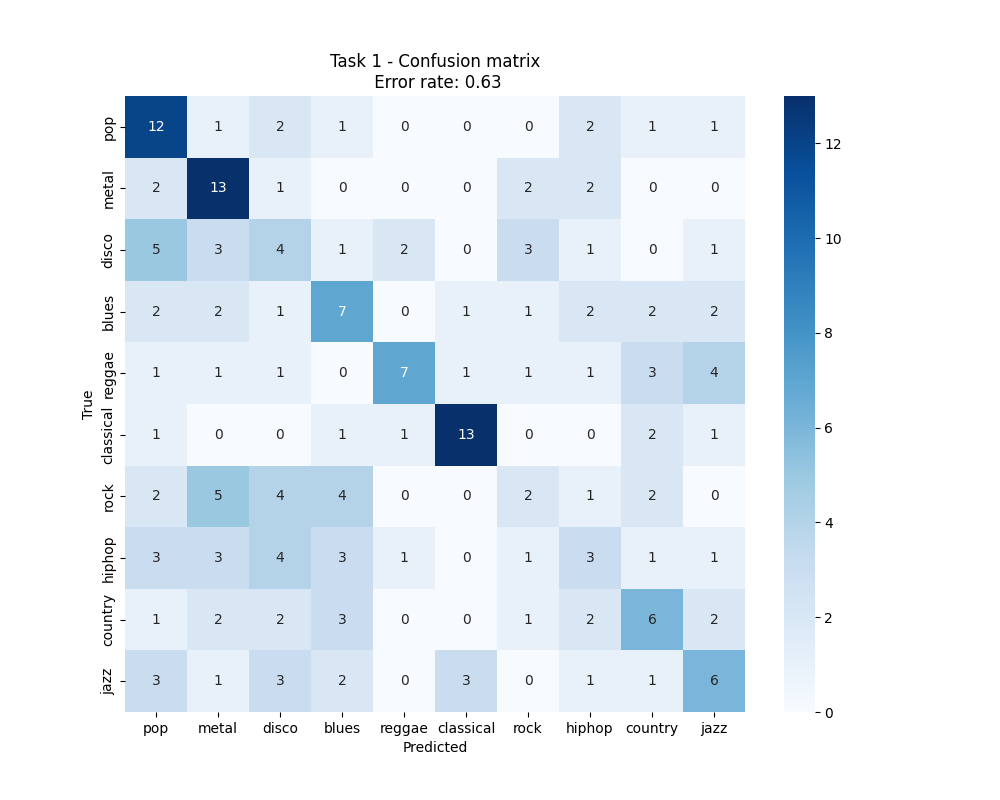
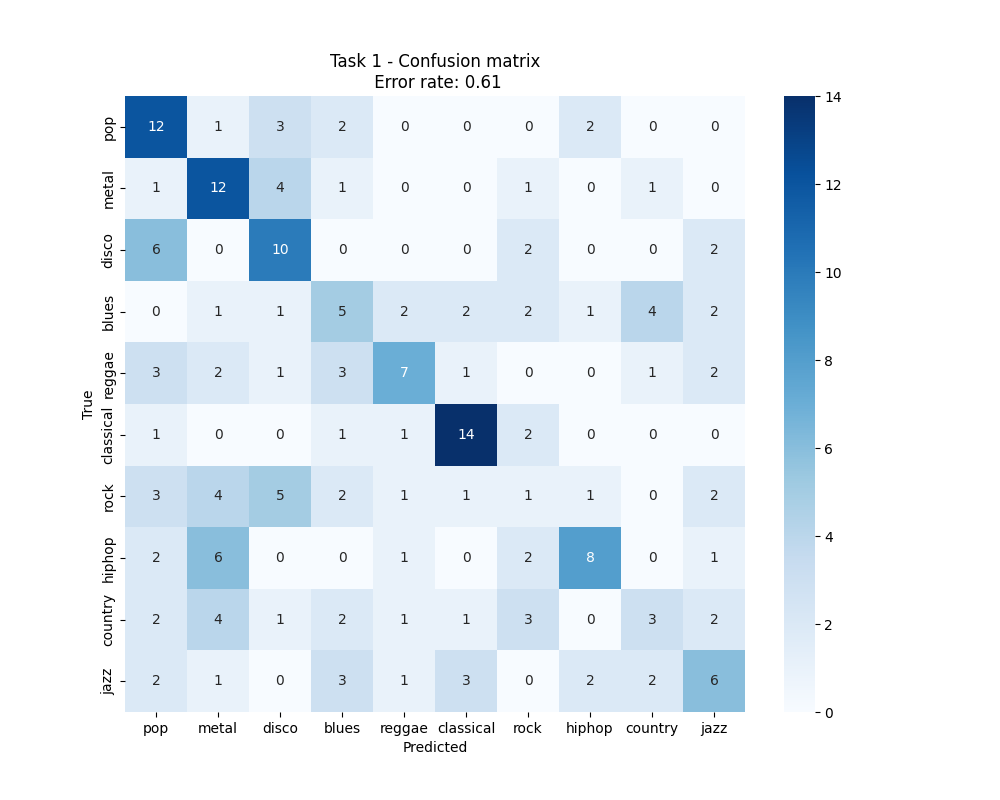
added requirements.txt and found new best feature

diff --git a/main.py b/main.py
@@ -3,7 +3,7 @@ import matplotlib.pyplot as plt
 import pandas as pd
 from kNN_classifier import kNNClassifier
 from maxMinScaler import MaxMinScaler
-from performance import save_confusion_matrix, plot_histogram
+from performance import save_confusion_matrix, plot_histogram, findBestNewFeature
 
 labels = ["pop", "metal", "disco", "blues", "reggae", "classical", "rock", "hiphop", "country", "jazz"]
 
@@ -11,100 +11,102 @@ features = [
     'spectral_rolloff_mean',
     'mfcc_1_mean',
     'spectral_centroid_mean',
-    'tempo',
-    'GenreID'
+    'tempo'
 ]
 
 # Loading data files
-df_30s = pd.read_csv('data/GenreClassData_30s.txt', sep='\t', usecols=features + ['Type', 'Genre'])
+df_30s = pd.read_csv('data/GenreClassData_30s.txt', sep='\t', usecols=features + ['Type', 'GenreID', 'Genre'])
 
 # Splitting training and testing data
-df_30s_train = df_30s[df_30s['Type'] == 'Train'][features]
-df_30s_test  = df_30s[df_30s['Type'] == 'Test'][features]
+df_30s_X_train = df_30s[df_30s['Type'] == 'Train'][features]
+df_30s_Y_train = df_30s[df_30s['Type'] == 'Train']['GenreID']
+df_30s_X_test  = df_30s[df_30s['Type'] == 'Test'][features]
+df_30s_Y_test  = df_30s[df_30s['Type'] == 'Test']['GenreID']
 
-train_30s = df_30s_train.to_numpy()
-test_30s = df_30s_test.to_numpy()
+X_train_30s = df_30s_X_train.to_numpy()
+Y_train_30s = df_30s_Y_train.to_numpy()
+X_test_30s  = df_30s_X_test.to_numpy()
+Y_test_30s  = df_30s_Y_test.to_numpy()
 
 # Task 1
-# Scale features to [0, 1] range using Min-Max scaling
 scaler = MaxMinScaler(feature_range=(0, 1))
 
-train_30s_scaled = scaler.fit_transform(train_30s[:, :-1])
-test_30s_scaled = scaler.transform(test_30s[:, :-1])
+scaled_X_train_30s = scaler.fit_transform(X_train_30s)
+scaled_X_test_30s = scaler.transform(X_test_30s)
 
 classifier = kNNClassifier(k=5)
-classifier.fit(train_30s_scaled[:, :-1], train_30s[:, -1])
-predictions = classifier.predict(test_30s_scaled[:, :-1])
+classifier.fit(scaled_X_train_30s, Y_train_30s)
+predictions = classifier.predict(scaled_X_test_30s)
 
-accuracy = np.mean(predictions == test_30s[:, -1])
+accuracy = np.mean(predictions == Y_test_30s)
 print(f'Error rate: {1 - accuracy:.2f}')
 
-# save_confusion_matrix(test_30s_scaled[:, -1], predictions, labels, f"Task 1 - Confusion matrix\n Error rate: {1 - accuracy:.2f}", "task_1_cm")
+# UNCOMMENT BELOW IF YOU WANT TO SAVE A NEW CONFUSION MATRIX
+#save_confusion_matrix(Y_test_30s, predictions, labels, f"Task 1 - Confusion matrix\n Error rate: {1 - accuracy:.2f}", "task_1_cm")
+
 
 # Task 2
 test_labels = ["pop", "disco", "metal", "classical"]
+# UNCOMMENT BELOW IF YOU WANT TO SAVE NEW DISTRIBUTION PLOTS
 #plot_histogram(df_30s, test_labels, 'spectral_rolloff_mean', 0, 9000, 16, bins=30, title="Distribution of Spectral Rolloff Mean", task="task_2")
 #plot_histogram(df_30s, test_labels, 'mfcc_1_mean', -800, 100, 19, bins=30, title="Distribution of MFCC 1 Mean", task="task_2")
 #plot_histogram(df_30s, test_labels, 'spectral_centroid_mean', 0, 5000, 16, bins=30, title="Distribution of Spectral Centroid Mean", task="task_2")
 #plot_histogram(df_30s, test_labels, 'tempo', 50, 200, 30, bins=30, title="Distribution of Tempo", task="task_2")
 
+
 # Task 3
-new_feature = 'spectral_rolloff_var'
-# spectral_bandwidth_mean
-# spectral_contrast_mean
-# chroma_stft_1_mean
-# spectral_flatness_mean best to now
-# 'spectral_rolloff_var' best without scaling
+remaining_features = ["zero_cross_rate_mean", "zero_cross_rate_std", "rmse_mean",
+                     "rmse_var", "spectral_centroid_var", "spectral_bandwidth_mean",
+                     "spectral_bandwidth_var", "spectral_rolloff_var", "spectral_contrast_mean",
+                     "spectral_contrast_var", "spectral_flatness_mean", "spectral_flatness_var",
+                     "chroma_stft_1_mean", "chroma_stft_2_mean", "chroma_stft_3_mean",
+                     "chroma_stft_4_mean", "chroma_stft_5_mean", "chroma_stft_6_mean",
+                     "chroma_stft_7_mean", "chroma_stft_8_mean", "chroma_stft_9_mean",
+                     "chroma_stft_10_mean", "chroma_stft_11_mean", "chroma_stft_12_mean",
+                     "chroma_stft_1_std", "chroma_stft_2_std", "chroma_stft_3_std",
+                     "chroma_stft_4_std", "chroma_stft_5_std", "chroma_stft_6_std",
+                     "chroma_stft_7_std", "chroma_stft_8_std", "chroma_stft_9_std",
+                     "chroma_stft_10_std", "chroma_stft_11_std", "chroma_stft_12_std",
+                     "mfcc_2_mean", "mfcc_3_mean", "mfcc_4_mean", "mfcc_5_mean", "mfcc_6_mean",
+                     "mfcc_7_mean", "mfcc_8_mean", "mfcc_9_mean", "mfcc_10_mean", "mfcc_11_mean",
+                     "mfcc_12_mean", "mfcc_1_std", "mfcc_2_std", "mfcc_3_std", "mfcc_4_std", 
+                     "mfcc_5_std", "mfcc_6_std", "mfcc_7_std", "mfcc_8_std", "mfcc_9_std", 
+                     "mfcc_10_std", "mfcc_11_std", "mfcc_12_std"]
 
-features = [
-    'spectral_rolloff_mean',
-    'mfcc_1_mean',
-    'spectral_centroid_mean',
-    #new_feature,
-    'GenreID'
-]
+prev_features = ['spectral_rolloff_mean', 'mfcc_1_mean', 'spectral_centroid_mean', 'tempo']
+df_30s_full = pd.read_csv('data/GenreClassData_30s.txt', sep='\t', usecols=prev_features + ['Type', 'GenreID', 'Genre'] + remaining_features)
+features, new_feature, index_of_replaced_feature = findBestNewFeature(remaining_features, prev_features, df_30s_full)
 
-df_30s = pd.read_csv('data/GenreClassData_30s.txt', sep='\t', usecols=features + ['Type', 'Genre'])
-df_30s_train = df_30s[df_30s['Type'] == 'Train'][features]
-df_30s_test  = df_30s[df_30s['Type'] == 'Test'][features]
-train_30s = df_30s_train.to_numpy()
-test_30s = df_30s_test.to_numpy()
+df_30s = pd.read_csv('data/GenreClassData_30s.txt', sep='\t', usecols=features + ['Type', 'GenreID', 'Genre'])
+
+df_30s_X_train = df_30s[df_30s['Type'] == 'Train'][features]
+df_30s_Y_train = df_30s[df_30s['Type'] == 'Train']['GenreID']
+df_30s_X_test  = df_30s[df_30s['Type'] == 'Test'][features]
+df_30s_Y_test  = df_30s[df_30s['Type'] == 'Test']['GenreID']
+
+X_train_30s = df_30s_X_train.to_numpy()
+Y_train_30s = df_30s_Y_train.to_numpy()
+X_test_30s  = df_30s_X_test.to_numpy()
+Y_test_30s  = df_30s_Y_test.to_numpy()
 
 scaler = MaxMinScaler(feature_range=(0, 1))
 
-train_30s_scaled = scaler.fit_transform(train_30s[:, :-1])
-test_30s_scaled = scaler.transform(test_30s[:, :-1])
-
-#print(df_30s[df_30s['Genre'] == 'pop'][new_feature])
-#plot_histogram(df_30s, test_labels, new_feature, -0.01, 0.15, 60, bins=30, title="Distribution of spectral flatness mean", task="task_3")
+scaled_X_train_30s = scaler.fit_transform(X_train_30s)
+scaled_X_test_30s = scaler.transform(X_test_30s)
 
 classifier = kNNClassifier(k=5)
-classifier.fit(train_30s_scaled[:, :-1], train_30s[:, -1])
-predictions = classifier.predict(test_30s_scaled[:, :-1])
+classifier.fit(scaled_X_train_30s, Y_train_30s)
+predictions = classifier.predict(scaled_X_test_30s)
 
-accuracy = np.mean(predictions == test_30s[:, -1])
+accuracy = np.mean(predictions == Y_test_30s)
+
 print(f'Error rate with new feature: {1 - accuracy:.2f}')
+print(f'Feature with best accuracy: {new_feature}')
+print(f'It replaced: {prev_features[index_of_replaced_feature]}')
+
+# UNCOMMENT BELOW IF YOU WANT TO SAVE A NEW CONFUSION MATRIX AND DISTRIBUTION PLOT
+#plot_histogram(df_30s, test_labels, new_feature, -0.01, 0.15, 15, bins=30, title="Distribution of RMSE variance", task="task_3")
+#save_confusion_matrix(Y_test_30s, predictions, labels, f"Task 3 - Confusion matrix\n Error rate: {1 - accuracy:.2f}", "task_3_cm")
+
 
 # Task 4
-features = [
-    'spectral_rolloff_mean',
-    'mfcc_1_mean',
-    'spectral_centroid_mean',
-    'tempo',
-    'GenreID'
-]
-
-df_5s = pd.read_csv('data/GenreClassData_5s.txt', sep='\t', usecols=features + ['Type', 'Genre'])
-df_10s = pd.read_csv('data/GenreClassData_10s.txt', sep='\t', usecols=features + ['Type', 'Genre'])
-
-df_5s_train = df_5s[df_5s['Type'] == 'Train'][features]
-df_5s_test  = df_5s[df_5s['Type'] == 'Test'][features]
-
-df_10s_train = df_10s[df_10s['Type'] == 'Train'][features]
-df_10s_test  = df_10s[df_10s['Type'] == 'Test'][features]
-
-train_5s = df_5s_train.to_numpy()
-test_5s = df_5s_test.to_numpy()
-
-train_10s = df_10s_train.to_numpy()
-test_10s = df_10s_test.to_numpy()

diff --git a/performance.py b/performance.py
@@ -1,7 +1,10 @@
 import numpy as np
+import pandas as pd
 import matplotlib.pyplot as plt
 import seaborn as sns
 from sklearn.metrics import confusion_matrix
+from maxMinScaler import MaxMinScaler
+from kNN_classifier import kNNClassifier
 
 def save_confusion_matrix(y_true, y_pred, labels, figure_title, png_title):
     cm = confusion_matrix(
@@ -35,3 +38,47 @@ def plot_histogram(dataframe, classes, feature, xlim_bottom, xlim_top, ylim_top,
     plt.suptitle(title)
     plt.tight_layout()
     plt.savefig(f"results/{task}_{feature}_histogram.png")
+
+def findBestNewFeature(remaining_features, prev_features, df_full):
+    revised_features = prev_features.copy()
+
+    best_new_features = prev_features.copy()
+    best_new_feature_accuracies = np.zeros(len(prev_features))
+
+    for j, curr_feature_to_replace in enumerate(prev_features):
+        new_feature_accuracies = np.zeros(len(remaining_features))
+
+        for i, new_feature in enumerate(remaining_features):
+            features = prev_features.copy()
+            features[j] = new_feature
+
+            df_X_train = df_full[df_full['Type'] == 'Train'][features]
+            df_Y_train = df_full[df_full['Type'] == 'Train']['GenreID']
+            df_X_test  = df_full[df_full['Type'] == 'Test'][features]
+            df_Y_test  = df_full[df_full['Type'] == 'Test']['GenreID']
+
+            X_train = df_X_train.to_numpy()
+            Y_train = df_Y_train.to_numpy()
+            X_test  = df_X_test.to_numpy()
+            Y_test  = df_Y_test.to_numpy()
+            
+            scaler = MaxMinScaler(feature_range=(0, 1))
+
+            scaled_X_train = scaler.fit_transform(X_train)
+            scaled_X_test = scaler.transform(X_test)
+
+            classifier = kNNClassifier(k=5)
+            classifier.fit(scaled_X_train, Y_train)
+            predictions = classifier.predict(scaled_X_test)
+
+            accuracy = np.mean(predictions == Y_test)
+            new_feature_accuracies[i] = accuracy
+
+        best_accuracy_index = np.argmax(new_feature_accuracies)
+        best_new_feature_accuracies[j] = new_feature_accuracies[best_accuracy_index]
+        best_new_features[j] = remaining_features[best_accuracy_index]
+    
+    index_of_feature_to_replace = np.argmax(best_new_feature_accuracies)
+    revised_features[index_of_feature_to_replace] = best_new_features[index_of_feature_to_replace]
+
+    return revised_features, best_new_features[index_of_feature_to_replace], index_of_feature_to_replace

diff --git a/kNN_classifier.py b/kNN_classifier.py
@@ -1,5 +1,4 @@
 import numpy as np
-import pandas as pd
 
 class kNNClassifier:
     def __init__(self, k=3):

diff --git a/README.md b/README.md
@@ -1,2 +1,5 @@
 Music Genre Classification
 ==========================
+In this project, the task was to classify the music genre of 30 second long audio tracks.
+
+The goal was to implement the machine learning algorithms ourselves as much as possible.
